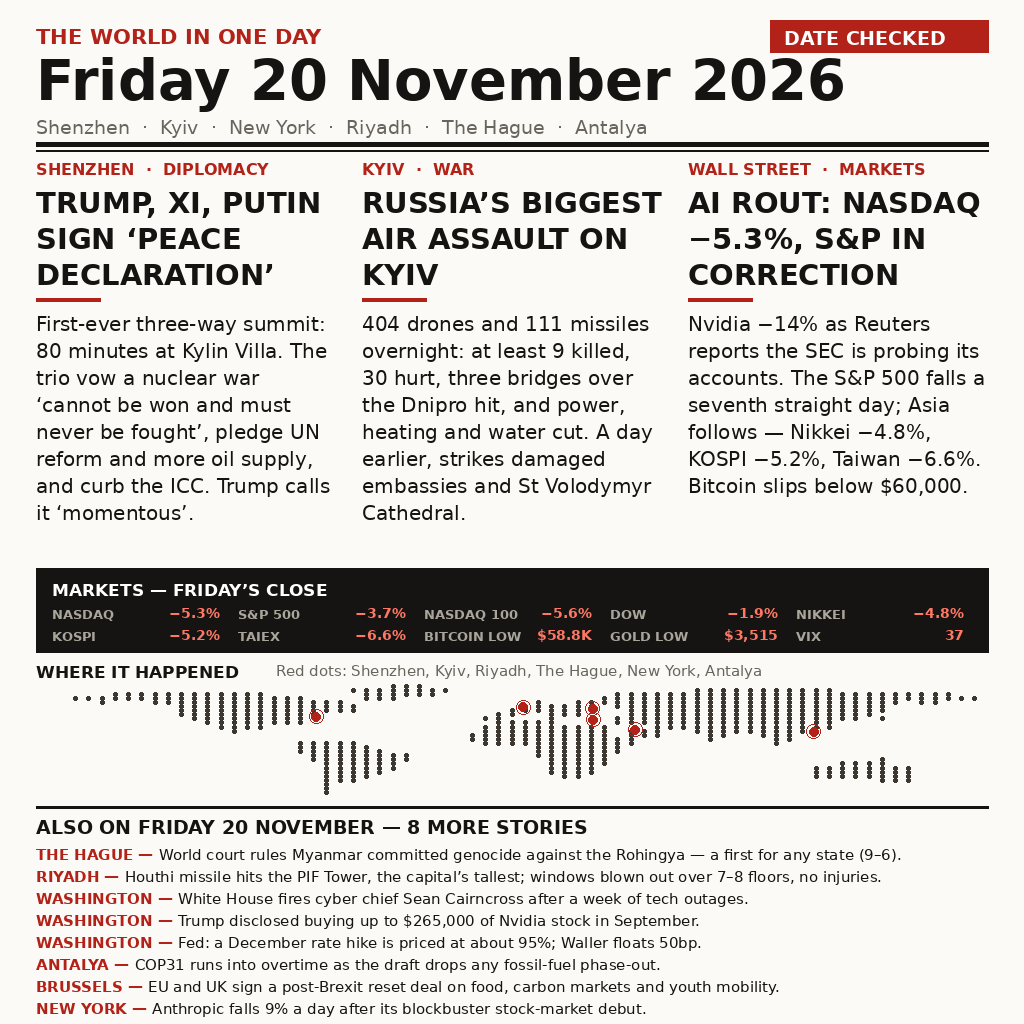
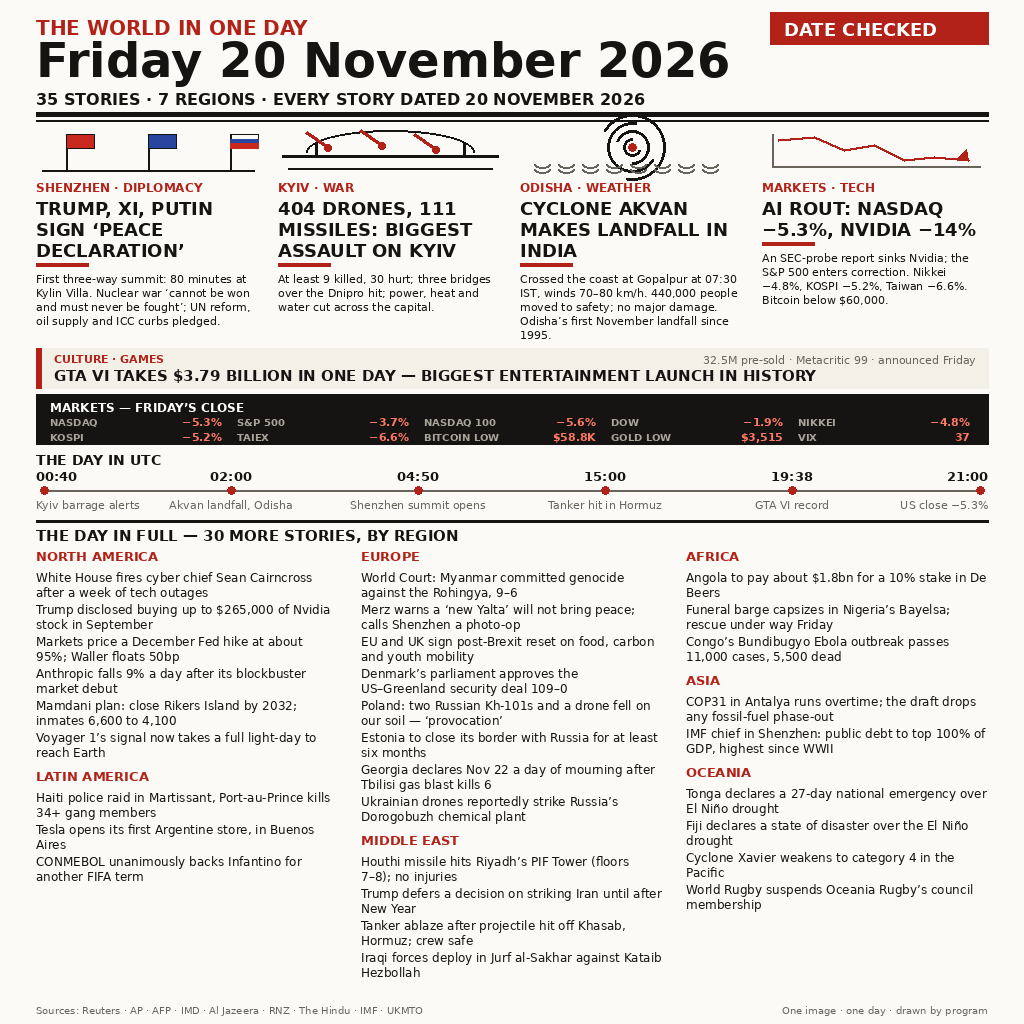
v2: 35 stories, 7 regions, illustrated leads, UTC timeline

diff --git a/render_v2.py b/render_v2.py
@@ -1,0 +1,335 @@
+#!/usr/bin/env python3
+"""Render v2 of the make.fun news-image-20261120 entry: a newspaper front
+page summing up Friday 20 November 2026 — 35 stories, 7 regions, four
+illustrated leads, a UTC timeline and the full day in a regional grid.
+
+Dev-only script (PIL); the submitted program is main.py, which copies the
+rendered entry.png. Facts: all items were verified in-session on
+2026-11-21 against Reuters / AP / AFP / IMD / Al Jazeera / RNZ and other
+named outlets before rendering (see the goal's v2 story list).
+"""
+from PIL import Image, ImageDraw, ImageFont
+
+W, H = 1024, 1024
+PAPER = (251, 250, 246)
+INK = (22, 20, 18)
+RED = (178, 34, 24)
+GREY = (105, 100, 92)
+PALE = (243, 240, 232)
+
+FONT = "/usr/share/fonts/truetype/dejavu/DejaVuSans.ttf"
+FONTB = "/usr/share/fonts/truetype/dejavu/DejaVuSans-Bold.ttf"
+
+
+def f(path, size):
+    return ImageFont.truetype(path, size)
+
+
+def wrap(draw, text, font, width):
+    """Greedy word wrap to a pixel width."""
+    words, lines, cur = text.split(), [], ""
+    for w in words:
+        trial = (cur + " " + w).strip()
+        if draw.textlength(trial, font=font) <= width:
+            cur = trial
+        else:
+            if cur:
+                lines.append(cur)
+            cur = w
+    if cur:
+        lines.append(cur)
+    return lines
+
+
+# ---------------------------------------------------------------- stories
+LEADS = [
+    ("SHENZHEN \u00b7 DIPLOMACY", "summit",
+     "TRUMP, XI, PUTIN SIGN \u2018PEACE DECLARATION\u2019",
+     "First three-way summit: 80 minutes at Kylin Villa. Nuclear war "
+     "\u2018cannot be won and must never be fought\u2019; UN reform, oil supply "
+     "and ICC curbs pledged."),  # AP / Reuters / AFP
+    ("KYIV \u00b7 WAR", "kyiv",
+     "404 DRONES, 111 MISSILES: BIGGEST ASSAULT ON KYIV",
+     "At least 9 killed, 30 hurt; three bridges over the Dnipro hit; "
+     "power, heat and water cut across the capital."),  # Reuters / AP
+    ("ODISHA \u00b7 WEATHER", "akvan",
+     "CYCLONE AKVAN MAKES LANDFALL IN INDIA",
+     "Crossed the coast at Gopalpur at 07:30 IST, winds 70\u201380 km/h. "
+     "440,000 people moved to safety; no major damage. Odisha\u2019s first "
+     "November landfall since 1995."),  # IMD / The Hindu
+    ("MARKETS \u00b7 TECH", "selloff",
+     "AI ROUT: NASDAQ \u22125.3%, NVIDIA \u221214%",
+     "An SEC-probe report sinks Nvidia; the S&P 500 enters correction. "
+     "Nikkei \u22124.8%, KOSPI \u22125.2%, Taiwan \u22126.6%. Bitcoin below $60,000."),
+    # Reuters closing data
+]
+
+GRID = [
+    ("NORTH AMERICA", [
+        "White House fires cyber chief Sean Cairncross after a week of tech outages",
+        "Trump disclosed buying up to $265,000 of Nvidia stock in September",
+        "Markets price a December Fed hike at about 95%; Waller floats 50bp",
+        "Anthropic falls 9% a day after its blockbuster market debut",
+        "Mamdani plan: close Rikers Island by 2032; inmates 6,600 to 4,100",
+        "Voyager 1\u2019s signal now takes a full light-day to reach Earth",
+    ]),
+    ("LATIN AMERICA", [
+        "Haiti police raid in Martissant, Port-au-Prince kills 34+ gang members",
+        "Tesla opens its first Argentine store, in Buenos Aires",
+        "CONMEBOL unanimously backs Infantino for another FIFA term",
+    ]),
+    ("EUROPE", [
+        "World Court: Myanmar committed genocide against the Rohingya, 9\u20136",
+        "Merz warns a \u2018new Yalta\u2019 will not bring peace; calls Shenzhen a photo-op",
+        "EU and UK sign post-Brexit reset on food, carbon and youth mobility",
+        "Denmark\u2019s parliament approves the US\u2013Greenland security deal 109\u20130",
+        "Poland: two Russian Kh-101s and a drone fell on our soil \u2014 \u2018provocation\u2019",
+        "Estonia to close its border with Russia for at least six months",
+        "Georgia declares Nov 22 a day of mourning after Tbilisi gas blast kills 6",
+        "Ukrainian drones reportedly strike Russia\u2019s Dorogobuzh chemical plant",
+    ]),
+    ("MIDDLE EAST", [
+        "Houthi missile hits Riyadh\u2019s PIF Tower (floors 7\u20138); no injuries",
+        "Trump defers a decision on striking Iran until after New Year",
+        "Tanker ablaze after projectile hit off Khasab, Hormuz; crew safe",
+        "Iraqi forces deploy in Jurf al-Sakhar against Kataib Hezbollah",
+    ]),
+    ("AFRICA", [
+        "Angola to pay about $1.8bn for a 10% stake in De Beers",
+        "Funeral barge capsizes in Nigeria\u2019s Bayelsa; rescue under way Friday",
+        "Congo\u2019s Bundibugyo Ebola outbreak passes 11,000 cases, 5,500 dead",
+    ]),
+    ("ASIA", [
+        "COP31 in Antalya runs overtime; the draft drops any fossil-fuel phase-out",
+        "IMF chief in Shenzhen: public debt to top 100% of GDP, highest since WWII",
+    ]),
+    ("OCEANIA", [
+        "Tonga declares a 27-day national emergency over El Ni\u00f1o drought",
+        "Fiji declares a state of disaster over the El Ni\u00f1o drought",
+        "Cyclone Xavier weakens to category 4 in the Pacific",
+        "World Rugby suspends Oceania Rugby\u2019s council membership",
+    ]),
+]
+
+TIMELINE = [
+    ("00:40", "Kyiv barrage alerts"),
+    ("02:00", "Akvan landfall, Odisha"),
+    ("04:50", "Shenzhen summit opens"),
+    ("15:00", "Tanker hit in Hormuz"),
+    ("19:38", "GTA VI record"),
+    ("21:00", "US close \u22125.3%"),
+]
+
+MARKETS = [("NASDAQ", "\u22125.3%"), ("S&P 500", "\u22123.7%"),
+           ("NASDAQ 100", "\u22125.6%"), ("DOW", "\u22121.9%"),
+           ("NIKKEI", "\u22124.8%"), ("KOSPI", "\u22125.2%"),
+           ("TAIEX", "\u22126.6%"), ("BITCOIN LOW", "$58.8K"),
+           ("GOLD LOW", "$3,515"), ("VIX", "37")]
+
+
+# ------------------------------------------------------------ illustrations
+def illo_summit(d, x, y, w, h):
+    """Three flags over a summit table line."""
+    base = y + h - 4
+    d.line([x + 6, base, x + w - 6, base], fill=INK, width=2)
+    for i in range(3):
+        px = x + 30 + i * (w - 60) // 2
+        d.line([px, y + 4, px, base], fill=INK, width=2)
+        if i == 0:
+            d.rectangle([px, y + 4, px + 28, y + 18], fill=(200, 40, 30), outline=INK)
+        elif i == 1:
+            d.rectangle([px, y + 4, px + 28, y + 18], fill=(40, 70, 160), outline=INK)
+        else:
+            d.rectangle([px, y + 4, px + 28, y + 18], outline=INK)
+            d.rectangle([px, y + 9, px + 28, y + 13], fill=(40, 70, 160))
+            d.rectangle([px, y + 13, px + 28, y + 18], fill=(200, 40, 30))
+
+
+def illo_kyiv(d, x, y, w, h):
+    """Bridge silhouette with missile streaks."""
+    base = y + h - 6
+    d.line([x + 4, base - 12, x + w - 4, base - 12], fill=INK, width=3)
+    for tx in (x + 38, x + w - 38):
+        d.line([tx, y + 12, tx, base - 12], fill=INK, width=3)
+    d.arc([x + 28, base - 38, x + w - 28, base + 6], 180, 360, fill=INK, width=2)
+    d.line([x + 10, base, x + w - 10, base], fill=INK, width=2)
+    for sx, sy in ((x + 28, y + 2), (x + 82, y + 0), (x + 136, y + 4)):
+        d.line([sx, sy, sx + 20, sy + 14], fill=RED, width=3)
+        d.ellipse([sx + 18, sy + 12, sx + 25, sy + 19], fill=RED)
+
+
+def illo_akvan(d, x, y, w, h):
+    """Cyclone spiral over wavy sea."""
+    cx, cy = x + w // 2, y + h // 2 - 5
+    for r, a0 in ((9, 20), (17, 200), (25, 30), (33, 210)):
+        d.arc([cx - r, cy - r, cx + r, cy + r], a0, a0 + 250, fill=INK, width=3)
+    d.ellipse([cx - 4, cy - 4, cx + 4, cy + 4], fill=RED)
+    for i in range(2):
+        wy = y + h - 10 + i * 5
+        for sx in range(x + 14, x + w - 26, 24):
+            d.arc([sx, wy - 4, sx + 16, wy + 4], 0, 180, fill=GREY, width=2)
+
+
+def illo_selloff(d, x, y, w, h):
+    """Jagged falling chart line with a red arrow."""
+    d.line([x + 10, y + 4, x + 10, y + h - 8], fill=GREY, width=2)
+    d.line([x + 10, y + h - 8, x + w - 6, y + h - 8], fill=GREY, width=2)
+    pts = [(x + 16, y + 10), (x + 52, y + 7), (x + 82, y + 20),
+           (x + 112, y + 15), (x + 142, y + 30), (x + 172, y + 27),
+           (x + w - 18, y + h - 14)]
+    d.line(pts, fill=RED, width=3)
+    ex, ey = pts[-1]
+    d.polygon([(ex, ey), (ex - 12, ey - 1), (ex - 2, ey - 11)], fill=RED)
+
+
+ILLOS = {"summit": illo_summit, "kyiv": illo_kyiv,
+         "akvan": illo_akvan, "selloff": illo_selloff}
+
+
+# ------------------------------------------------------------------- grid
+def grid_columns():
+    return [[GRID[0], GRID[1]], [GRID[2], GRID[3]], [GRID[4], GRID[5], GRID[6]]]
+
+
+def column_height(draw, col, col_w, font, lh):
+    hgt = 0
+    for name, items in col:
+        hgt += 22
+        for it in items:
+            hgt += len(wrap(draw, it, font, col_w)) * lh + 2
+        hgt += 6
+    return hgt
+
+
+def draw_grid(draw, x, y, col_w, font, lh):
+    head_font = f(FONTB, 13)
+    for ci, col in enumerate(grid_columns()):
+        cx = x + ci * (col_w + 24)
+        cy = y
+        for name, items in col:
+            draw.text((cx, cy), name, font=head_font, fill=RED)
+            cy += 22
+            for it in items:
+                for line in wrap(draw, it, font, col_w):
+                    draw.text((cx, cy), line, font=font, fill=INK)
+                    cy += lh
+                cy += 2
+            cy += 6
+
+
+# ------------------------------------------------------------------- main
+def main():
+    img = Image.new("RGB", (W, H), PAPER)
+    d = ImageDraw.Draw(img)
+    M = 36
+    CW = 952
+    X1 = M + CW
+
+    # ---- Masthead ----
+    d.text((M, 16), "THE WORLD IN ONE DAY", font=f(FONTB, 20), fill=RED)
+    box = (X1 - 218, 12, X1, 44)
+    d.rectangle(box, fill=RED)
+    d.text((box[0] + 14, 19), "DATE CHECKED", font=f(FONTB, 18), fill=(255, 255, 255))
+    d.text((M, 32), "Friday 20 November 2026", font=f(FONTB, 48), fill=INK)
+    d.text((M, 90), "35 STORIES \u00b7 7 REGIONS \u00b7 EVERY STORY DATED 20 NOVEMBER 2026",
+           font=f(FONTB, 16), fill=INK)
+    d.rectangle([M, 112, X1, 116], fill=INK)
+    d.rectangle([M, 120, X1, 121], fill=INK)
+
+    # ---- Four illustrated leads (flow layout) ----
+    y = 130
+    col_w = (CW - 3 * 18) // 4  # 224
+    lead_bottom = y
+    for i, (kicker, illo, head, body) in enumerate(LEADS):
+        x = M + i * (col_w + 18)
+        ILLOS[illo](d, x, y, col_w, 44)
+        ky = y + 50
+        d.text((x, ky), kicker, font=f(FONTB, 12), fill=RED)
+        hy = ky + 18
+        for line in wrap(d, head, f(FONTB, 18), col_w):
+            d.text((x, hy), line, font=f(FONTB, 18), fill=INK)
+            hy += 21
+        d.rectangle([x, hy + 2, x + 52, hy + 5], fill=RED)
+        by = hy + 11
+        for line in wrap(d, body, f(FONT, 11), col_w):
+            d.text((x, by), line, font=f(FONT, 11), fill=INK)
+            by += 14
+        lead_bottom = max(lead_bottom, by)
+
+    # ---- GTA VI culture band ----
+    gy = int(lead_bottom) + 6
+    d.rectangle([M, gy, X1, gy + 40], fill=PALE)
+    d.rectangle([M, gy, M + 5, gy + 40], fill=RED)
+    d.text((M + 18, gy + 4), "CULTURE \u00b7 GAMES", font=f(FONTB, 11), fill=RED)
+    d.text((M + 18, gy + 19),
+           "GTA VI TAKES $3.79 BILLION IN ONE DAY \u2014 BIGGEST ENTERTAINMENT LAUNCH IN HISTORY",
+           font=f(FONTB, 15), fill=INK)
+    gta_note = "32.5M pre-sold \u00b7 Metacritic 99 \u00b7 announced Friday"
+    nw = d.textlength(gta_note, font=f(FONT, 11))
+    d.text((X1 - nw - 12, gy + 5), gta_note, font=f(FONT, 11), fill=GREY)
+
+    # ---- Markets strip ----
+    sy = gy + 46
+    d.rectangle([M, sy, X1, sy + 50], fill=INK)
+    d.text((M + 14, sy + 6), "MARKETS \u2014 FRIDAY\u2019S CLOSE", font=f(FONTB, 12),
+           fill=(255, 255, 255))
+    sx, sw = M + 14, 187
+    for i, (name, val) in enumerate(MARKETS):
+        x = sx + (i % 5) * sw
+        yy = sy + 22 + (i // 5) * 15
+        d.text((x, yy), name, font=f(FONTB, 10), fill=(170, 165, 155))
+        vw = d.textlength(val, font=f(FONTB, 11))
+        d.text((x + 172 - vw, yy - 1), val, font=f(FONTB, 11), fill=(255, 120, 100))
+
+    # ---- UTC timeline ----
+    ty = sy + 58
+    d.text((M, ty), "THE DAY IN UTC", font=f(FONTB, 14), fill=INK)
+    line_y = ty + 38
+    d.line([M + 8, line_y, X1 - 8, line_y], fill=GREY, width=2)
+    n = len(TIMELINE)
+    for i, (t, label) in enumerate(TIMELINE):
+        px = M + 8 + i * (CW - 16) // (n - 1)
+        d.ellipse([px - 4, line_y - 4, px + 4, line_y + 4], fill=RED)
+        tw = d.textlength(t, font=f(FONTB, 13))
+        tx = min(max(px - tw / 2, M), X1 - tw)
+        d.text((tx, line_y - 22), t, font=f(FONTB, 13), fill=INK)
+        ly = line_y + 8
+        for j, part in enumerate(label.split("\n")):
+            lw = d.textlength(part, font=f(FONT, 11))
+            lx = min(max(px - lw / 2, M), X1 - lw)
+            d.text((lx, ly + j * 13), part, font=f(FONT, 11), fill=GREY)
+
+    # ---- The day in full ----
+    gy2 = ty + 68
+    d.rectangle([M, gy2, X1, gy2 + 2], fill=INK)
+    d.text((M, gy2 + 7), "THE DAY IN FULL \u2014 30 MORE STORIES, BY REGION",
+           font=f(FONTB, 15), fill=INK)
+    grid_y = gy2 + 28
+    col_w3 = (CW - 2 * 24) // 3  # 301
+    avail = 998 - grid_y
+    chosen = None
+    for size, lh in ((12.5, 15.5), (12, 15), (11.5, 14.5), (11, 14), (10.5, 13.5)):
+        bf = f(FONT, size)
+        tallest = max(column_height(d, col, col_w3, bf, lh)
+                      for col in grid_columns())
+        if tallest <= avail:
+            chosen = (bf, lh)
+            break
+    if chosen is None:
+        raise SystemExit("grid does not fit at any size")
+    draw_grid(d, M, grid_y, col_w3, chosen[0], chosen[1])
+
+    # ---- Footer ----
+    d.text((M, 1004),
+           "Sources: Reuters \u00b7 AP \u00b7 AFP \u00b7 IMD \u00b7 Al Jazeera \u00b7 RNZ \u00b7 The Hindu \u00b7 IMF \u00b7 UKMTO",
+           font=f(FONT, 10), fill=GREY)
+    note = "One image \u00b7 one day \u00b7 drawn by program"
+    nw = d.textlength(note, font=f(FONT, 10))
+    d.text((X1 - nw, 1004), note, font=f(FONT, 10), fill=GREY)
+
+    img.save("entry.png", optimize=True)
+    print("saved entry.png", img.size)
+
+
+if __name__ == "__main__":
+    main()

diff --git a/README.md b/README.md
@@ -9,31 +9,24 @@ Entry for the [make.fun bounty **news-image-20261120**](https://make.fun/bounty/
 
 ## The image
 
-A newspaper front page summing up **Friday 20 November 2026**:
+A newspaper front page summing up **Friday 20 November 2026** — 35 stories,
+7 regions, every story dated 20 November 2026:
 
 - **Shenzhen** — Trump, Xi and Putin sign a "peace declaration" at the first-ever
   three-way summit.
 - **Kyiv** — Russia's biggest air assault on the capital: 404 drones and
-  111 missiles overnight, at least 9 killed.
+  111 missiles overnight, at least 9 killed, three Dnipro bridges hit.
+- **Odisha** — Cyclone Akvan makes landfall at Gopalpur, Odisha's first
+  November landfall since 1995; 440,000 people moved to safety.
 - **Wall Street** — the AI rout: Nasdaq −5.3%, S&P 500 −3.7% into correction,
   Nvidia −14% on reports of an SEC probe; Bitcoin below $60,000.
-- Plus a markets strip, a dot-grid world map of the day's datelines, and
-  eight more stories from the day.
+- **Culture** — GTA VI takes $3.79 billion in one day, the biggest
+  entertainment launch in history.
+- Plus a markets strip, a UTC timeline of the day, and "The Day in Full":
+  30 more stories grouped by region.
 
-Every headline and number was verified against Reuters, Bloomberg, AP, AFP,
-UN News and SCMP coverage of 20 November 2026.
-
-![Friday 20 November 2026 — the world's news in one image](entry.png)
-
-## How it works
-
-`main.py` (Python 3.13, standard library only, no network) copies `entry.png`
-to `/output/entry.png` (or `$MAKEFUN_OUTPUT_DIR/entry.png`), after checking
-the image is a whole PNG within the 1 MiB / 1024×1024 limits. Two runs write
-identical bytes.
-
-`render.py` is the development script that drew the front page with Pillow
-(fonts: DejaVu Sans); it is not used by `main.py`.
+Rendered by `render_v2.py` (Pillow) into `entry.png`; `main.py` copies it
+to the output directory byte for byte.
 
 ## Run it
 
